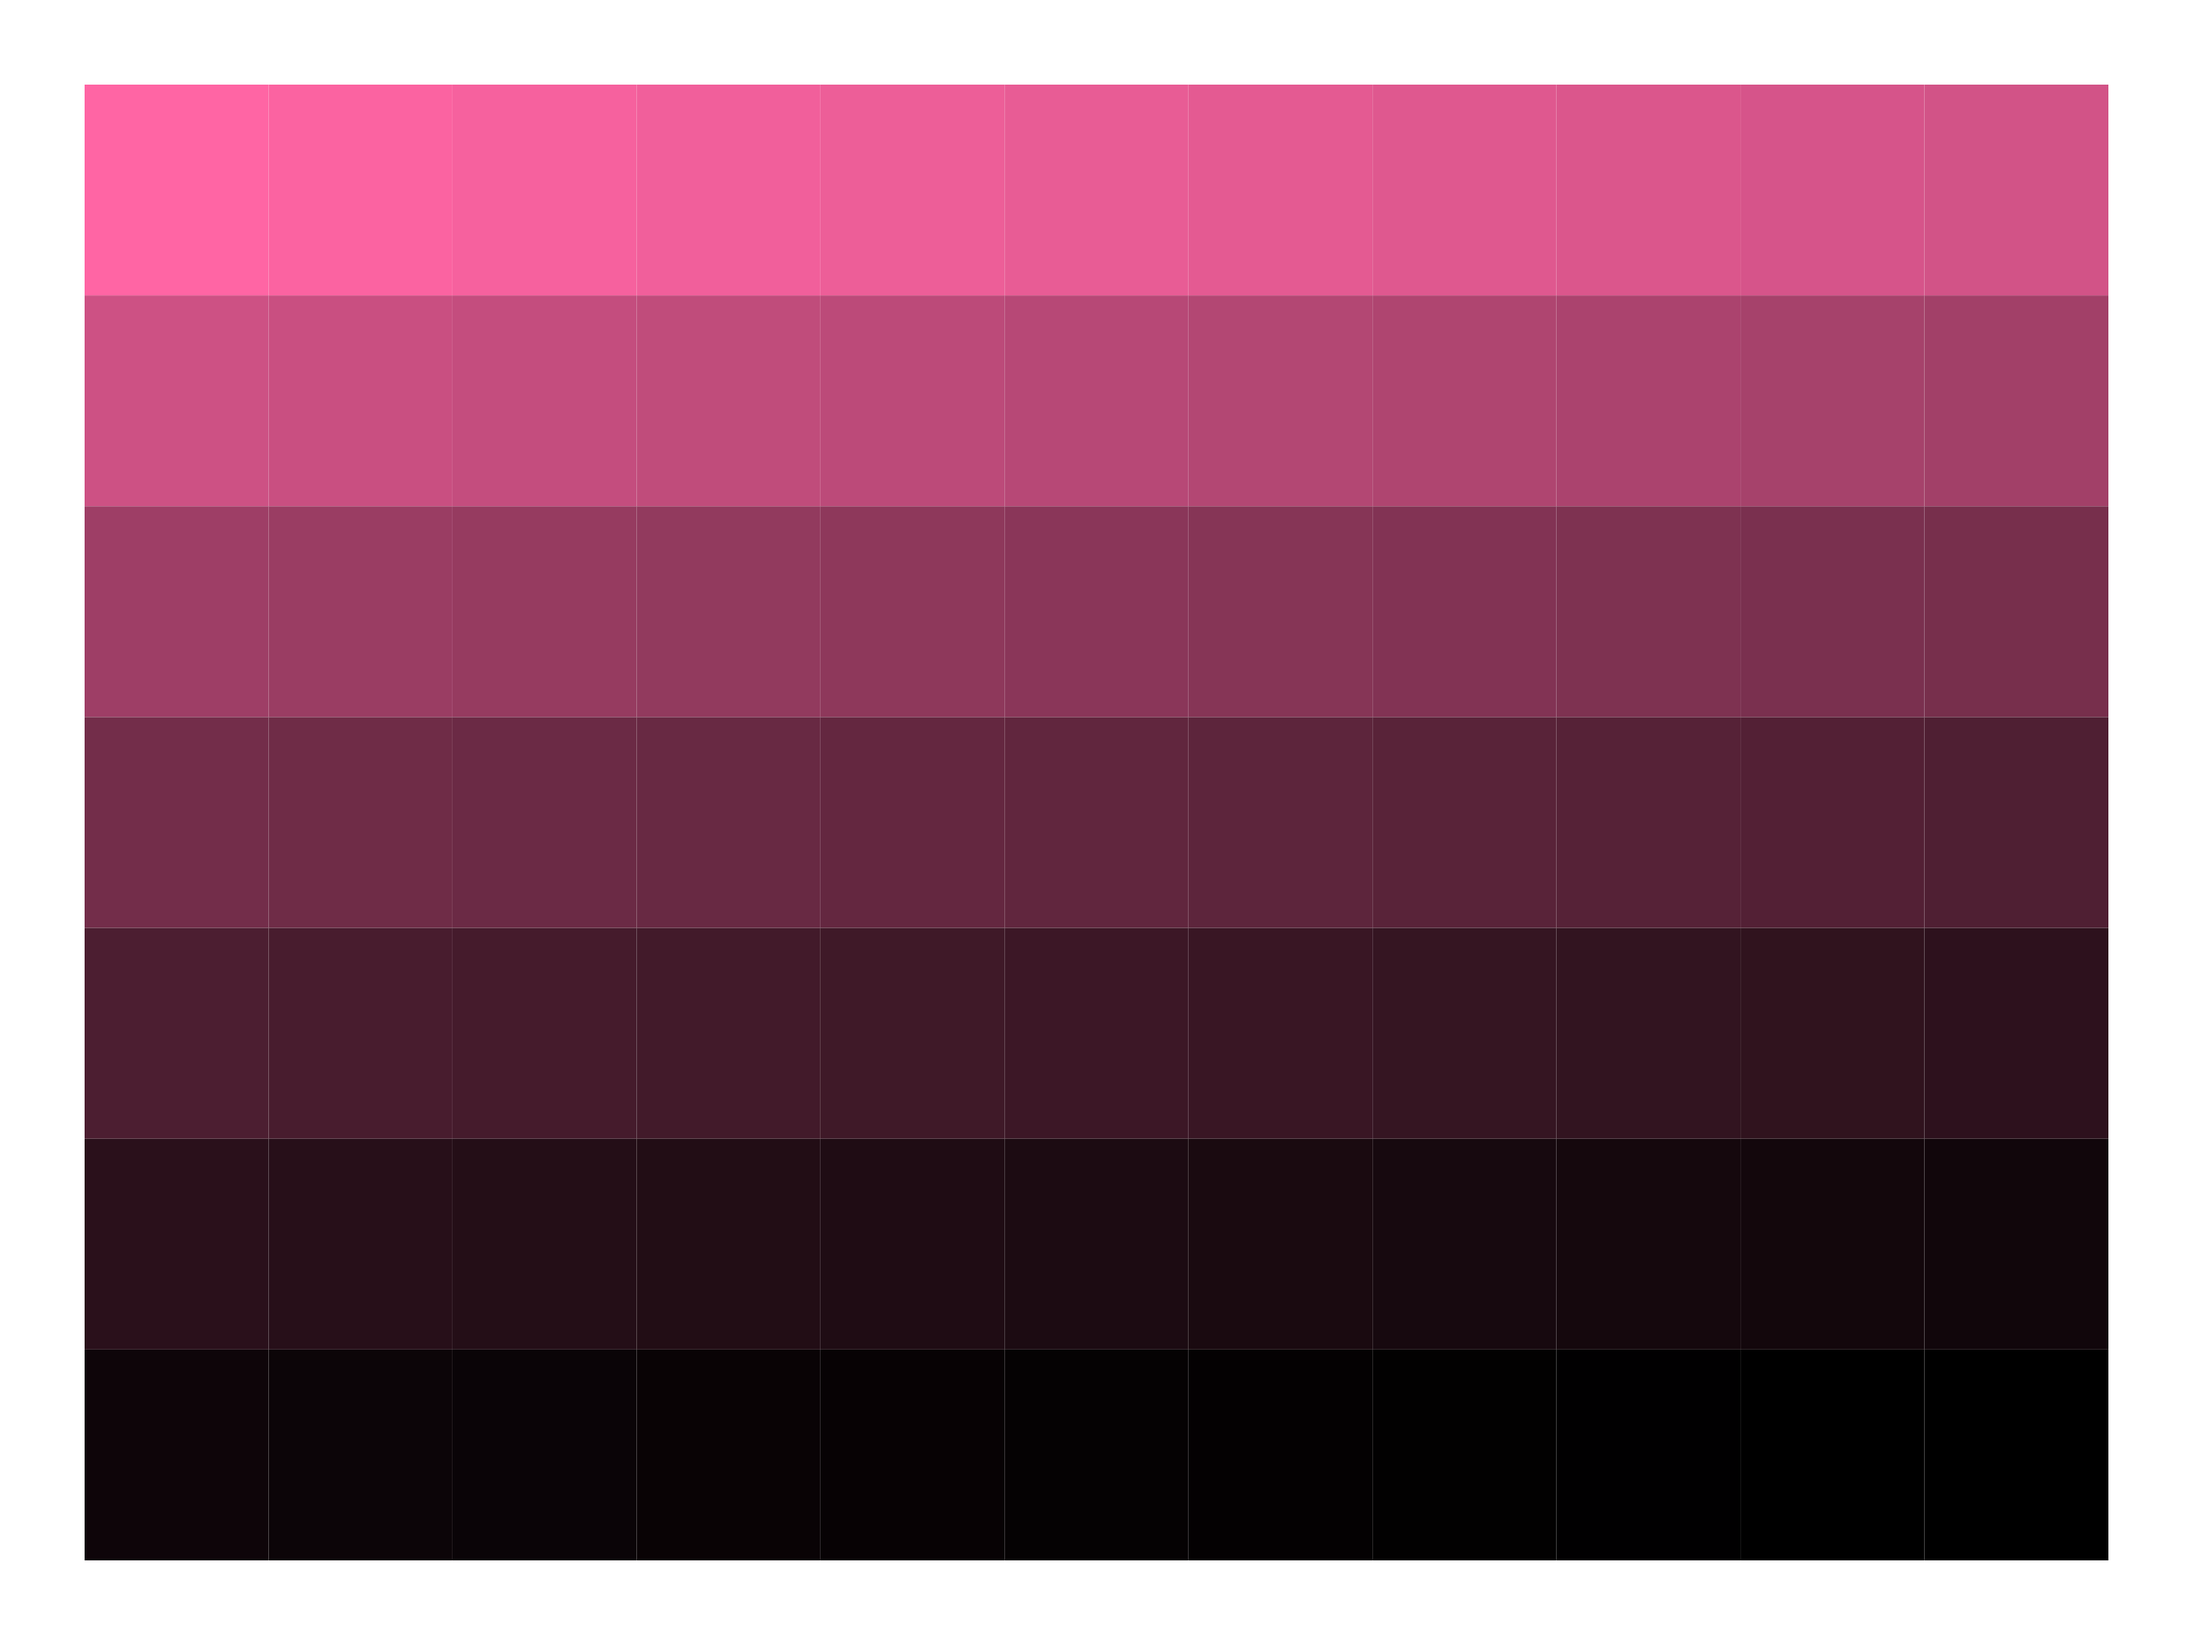
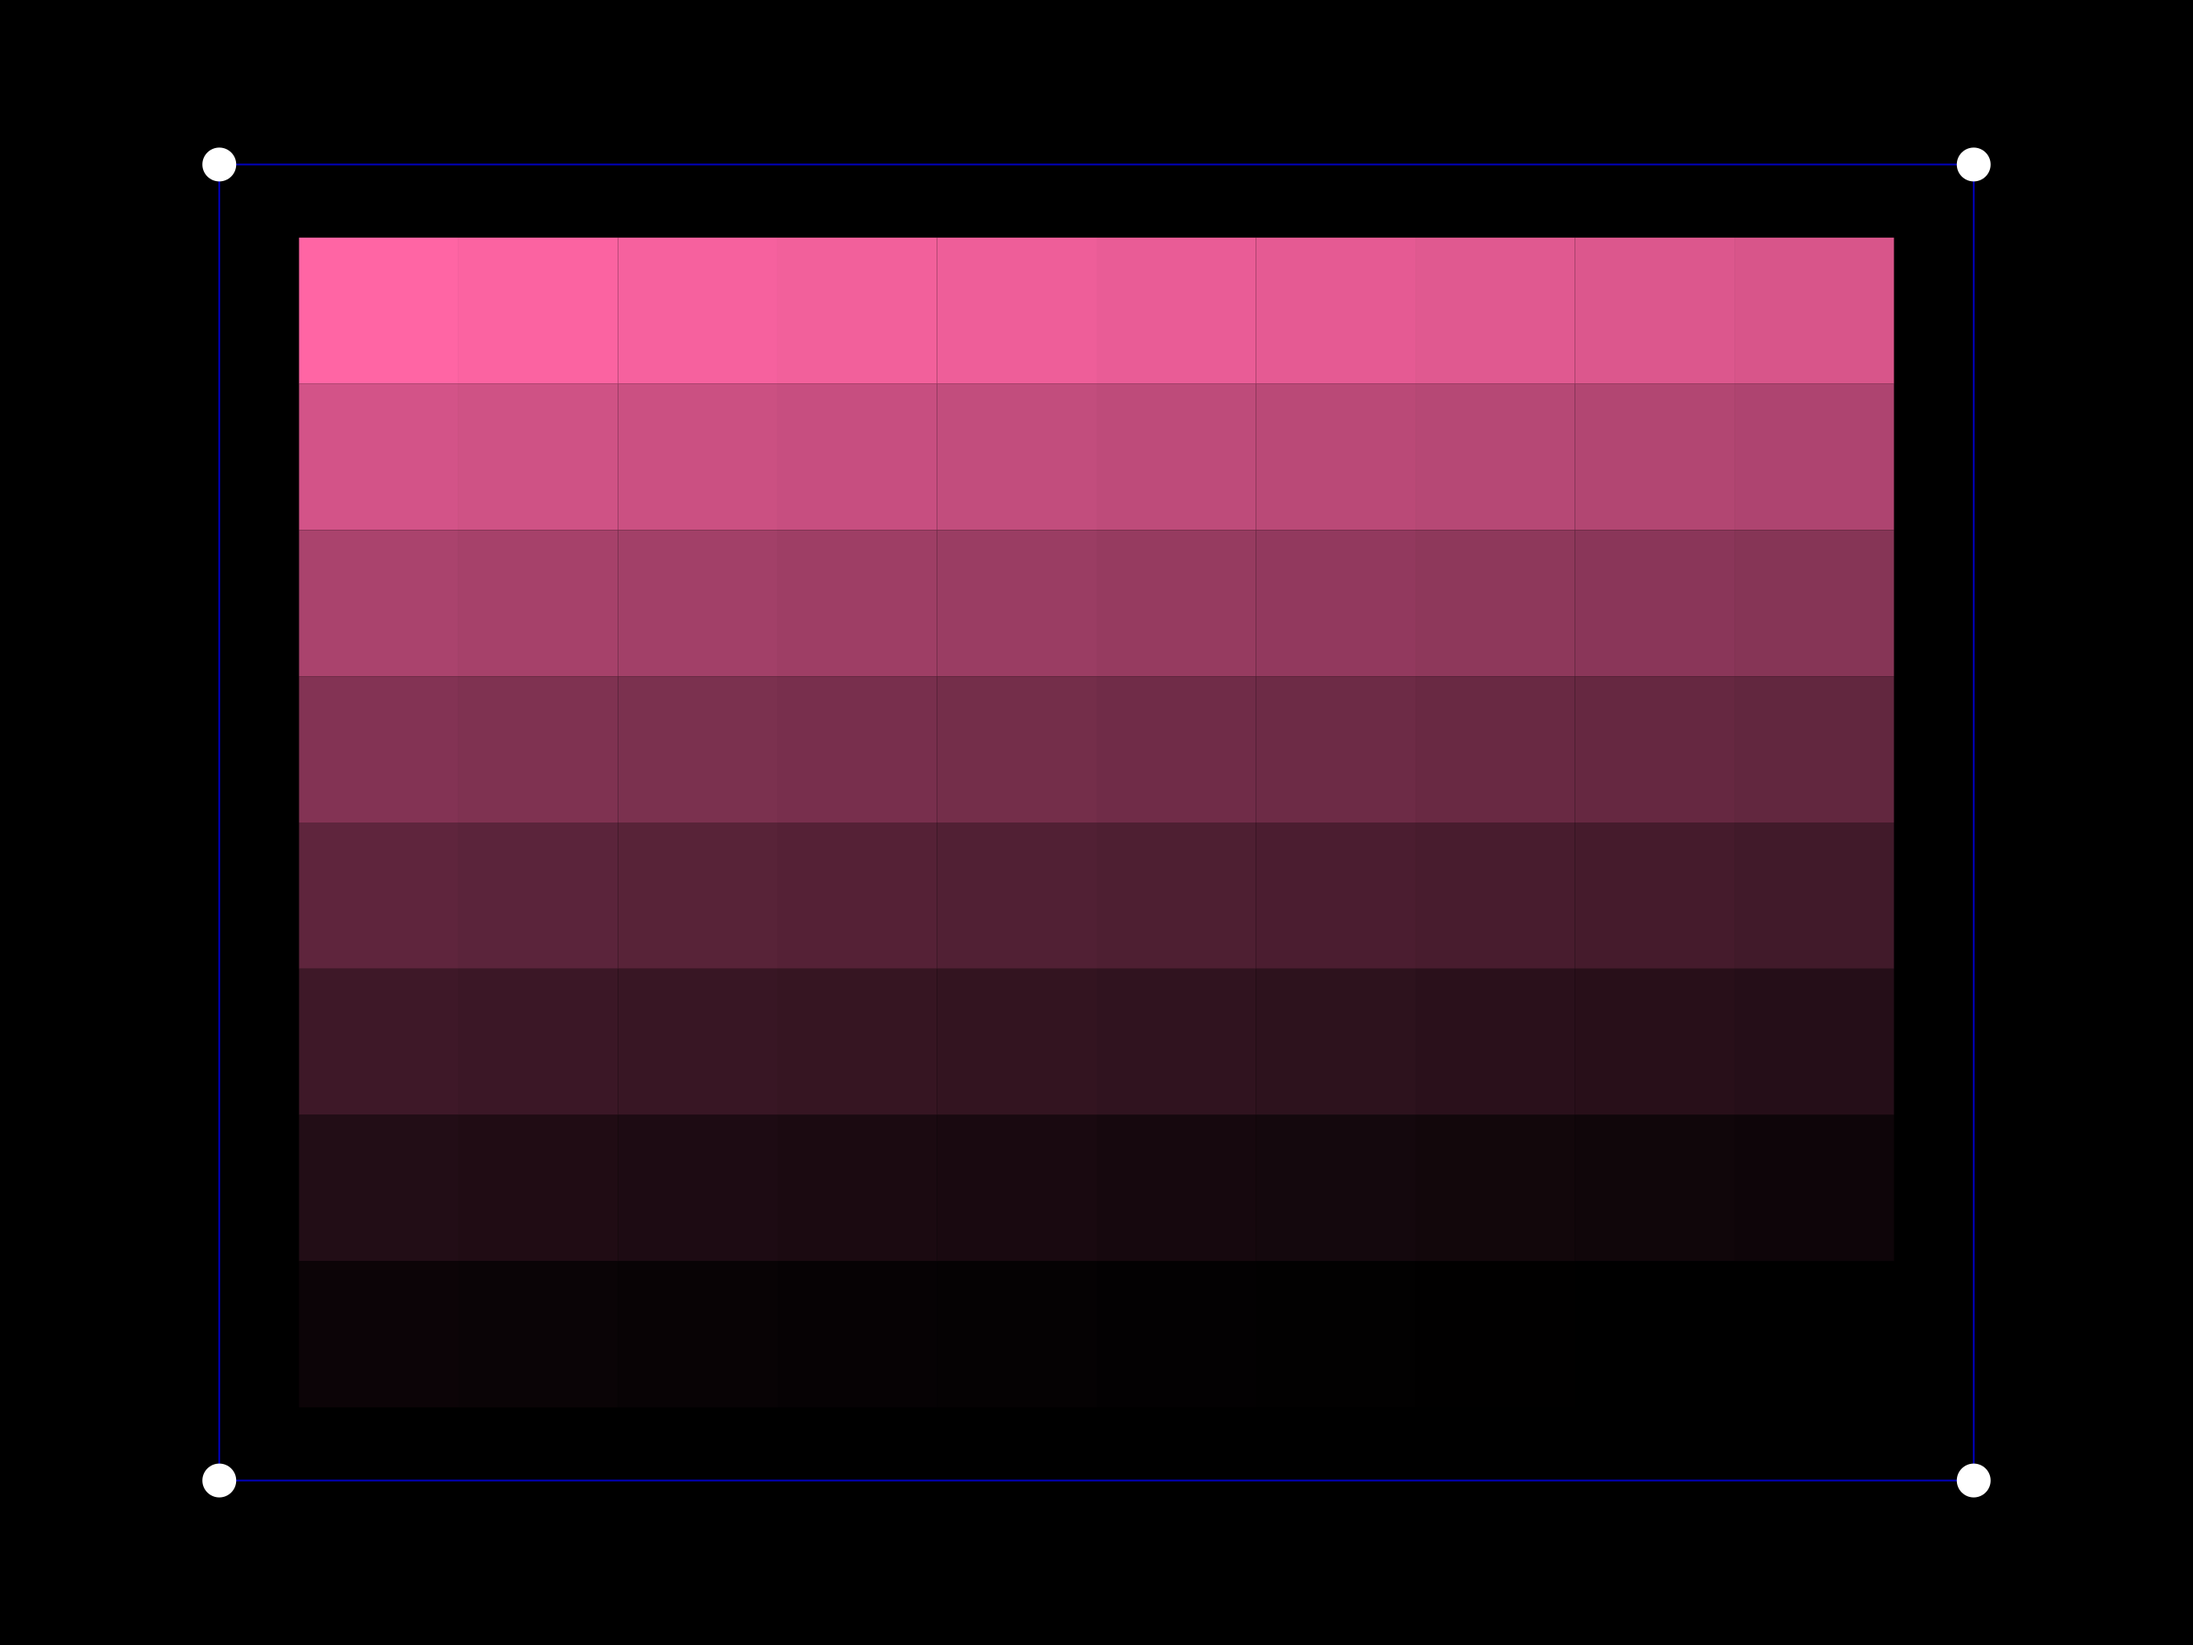
Added chart magenta example

diff --git a/src/core/graphics/ChartGenerator.cpp b/src/core/graphics/ChartGenerator.cpp
@@ -4,21 +4,25 @@
  * @brief Implements the test chart generation logic.
  */
 #include "ChartGenerator.hpp"
-#include "../io/OutputWriter.hpp"
 #include <cairo/cairo.h>
 #include <cmath>
 #include <iostream>
+#include <vector>
 #include <libintl.h>
 
 #define _(string) gettext(string)
 
-// Constants from the R script
-constexpr int NCOLS = 11;
-constexpr int NROWS = 7;
+#ifndef M_PI
+#define M_PI 3.14159265358979323846
+#endif
+
+// Constants from the R script, adapted for C++
+constexpr int NCOLS = 10;
+constexpr int NROWS = 8;
 constexpr int DIMX = 2592;
 constexpr int DIMY = 1944;
-constexpr int OFFSETX = 100;
-constexpr int OFFSETY = 100;
+constexpr double ALPHA = 0.8; // Effective area of the chart
+constexpr double RADIUS = 20.0; // Radius for the white corner circles
 constexpr double RGBMAX = 255.0;
 
 bool GenerateTestChart(
@@ -41,11 +45,40 @@ bool GenerateTestChart(
         return false;
     }
 
-    cairo_set_source_rgb(cr, 1.0, 1.0, 1.0); // White background
+    // Fill the background with black
+    cairo_set_source_rgb(cr, 0.0, 0.0, 0.0);
     cairo_paint(cr);
 
-    double patch_width = static_cast<double>(DIMX - 2 * OFFSETX) / (NCOLS);
-    double patch_height = static_cast<double>(DIMY - 2 * OFFSETY) / (NROWS);
+    // --- Calculations for effective area, corners, and offsets ---
+    const double DIMXc = DIMX * ALPHA;
+    const double DIMYc = DIMY * ALPHA;
+    const double OFFSETX = (DIMX - DIMXc) / 2.0;
+    const double OFFSETY = (DIMY - DIMYc) / 2.0;
+
+    // Position of 4 white circles: top-left, bottom-left, bottom-right, top-right
+    std::vector<double> x0 = {OFFSETX, OFFSETX, DIMX - OFFSETX, DIMX - OFFSETX};
+    std::vector<double> y0 = {OFFSETY, DIMY - OFFSETY, DIMY - OFFSETY, OFFSETY};
+
+    // --- Draw blue guide lines (0, 0, 191) ---
+    cairo_set_source_rgb(cr, 0.0 / 255.0, 0.0 / 255.0, 191.0 / 255.0);
+    cairo_set_line_width(cr, 2.0);
+    cairo_move_to(cr, x0[0], y0[0]);
+    cairo_line_to(cr, x0[1], y0[1]);
+    cairo_line_to(cr, x0[2], y0[2]);
+    cairo_line_to(cr, x0[3], y0[3]);
+    cairo_close_path(cr);
+    cairo_stroke(cr);
+    
+    // --- Draw 4 white corner circles ---
+    cairo_set_source_rgb(cr, 1.0, 1.0, 1.0); // White color
+    for (size_t i = 0; i < 4; ++i) {
+        cairo_arc(cr, x0[i], y0[i], RADIUS, 0, 2 * M_PI);
+        cairo_fill(cr);
+    }
+    
+    // --- Draw color patches inside the effective area ---
+    const double patch_width = DIMXc / (NCOLS + 1);
+    const double patch_height = DIMYc / (NROWS + 1);
 
     int patch_index = 0;
     for (int row = 0; row < NROWS; ++row) {
@@ -53,8 +86,8 @@ bool GenerateTestChart(
             double t = static_cast<double>(patch_index) / (NCOLS * NROWS - 1);
             double intensity = std::pow(1.0 - t, invgamma);
 
-            double x = OFFSETX + (col * patch_width);
-            double y = OFFSETY + (row * patch_height);
+            double x = (col * patch_width) + OFFSETX + (patch_width / 2.0);
+            double y = (row * patch_height) + OFFSETY + (patch_height / 2.0);
             
             cairo_set_source_rgb(
                 cr,
@@ -70,8 +103,8 @@ bool GenerateTestChart(
         }
     }
 
-    // The logic to write the file to PNG is now delegated.
-    bool success = OutputWriter::WritePng(surface, output_filename, log_stream);
+    cairo_status_t status = cairo_surface_write_to_png(surface, output_filename.c_str());
+    bool success = (status == CAIRO_STATUS_SUCCESS);
 
     if (success) {
         log_stream << _("Test chart generated successfully: ") << output_filename << std::endl;
@@ -79,6 +112,7 @@ bool GenerateTestChart(
         log_stream << _("Error: Failed to write chart to file: ") << output_filename << std::endl;
     }
 
+    // Clean up
     cairo_destroy(cr);
     cairo_surface_destroy(surface);
 
